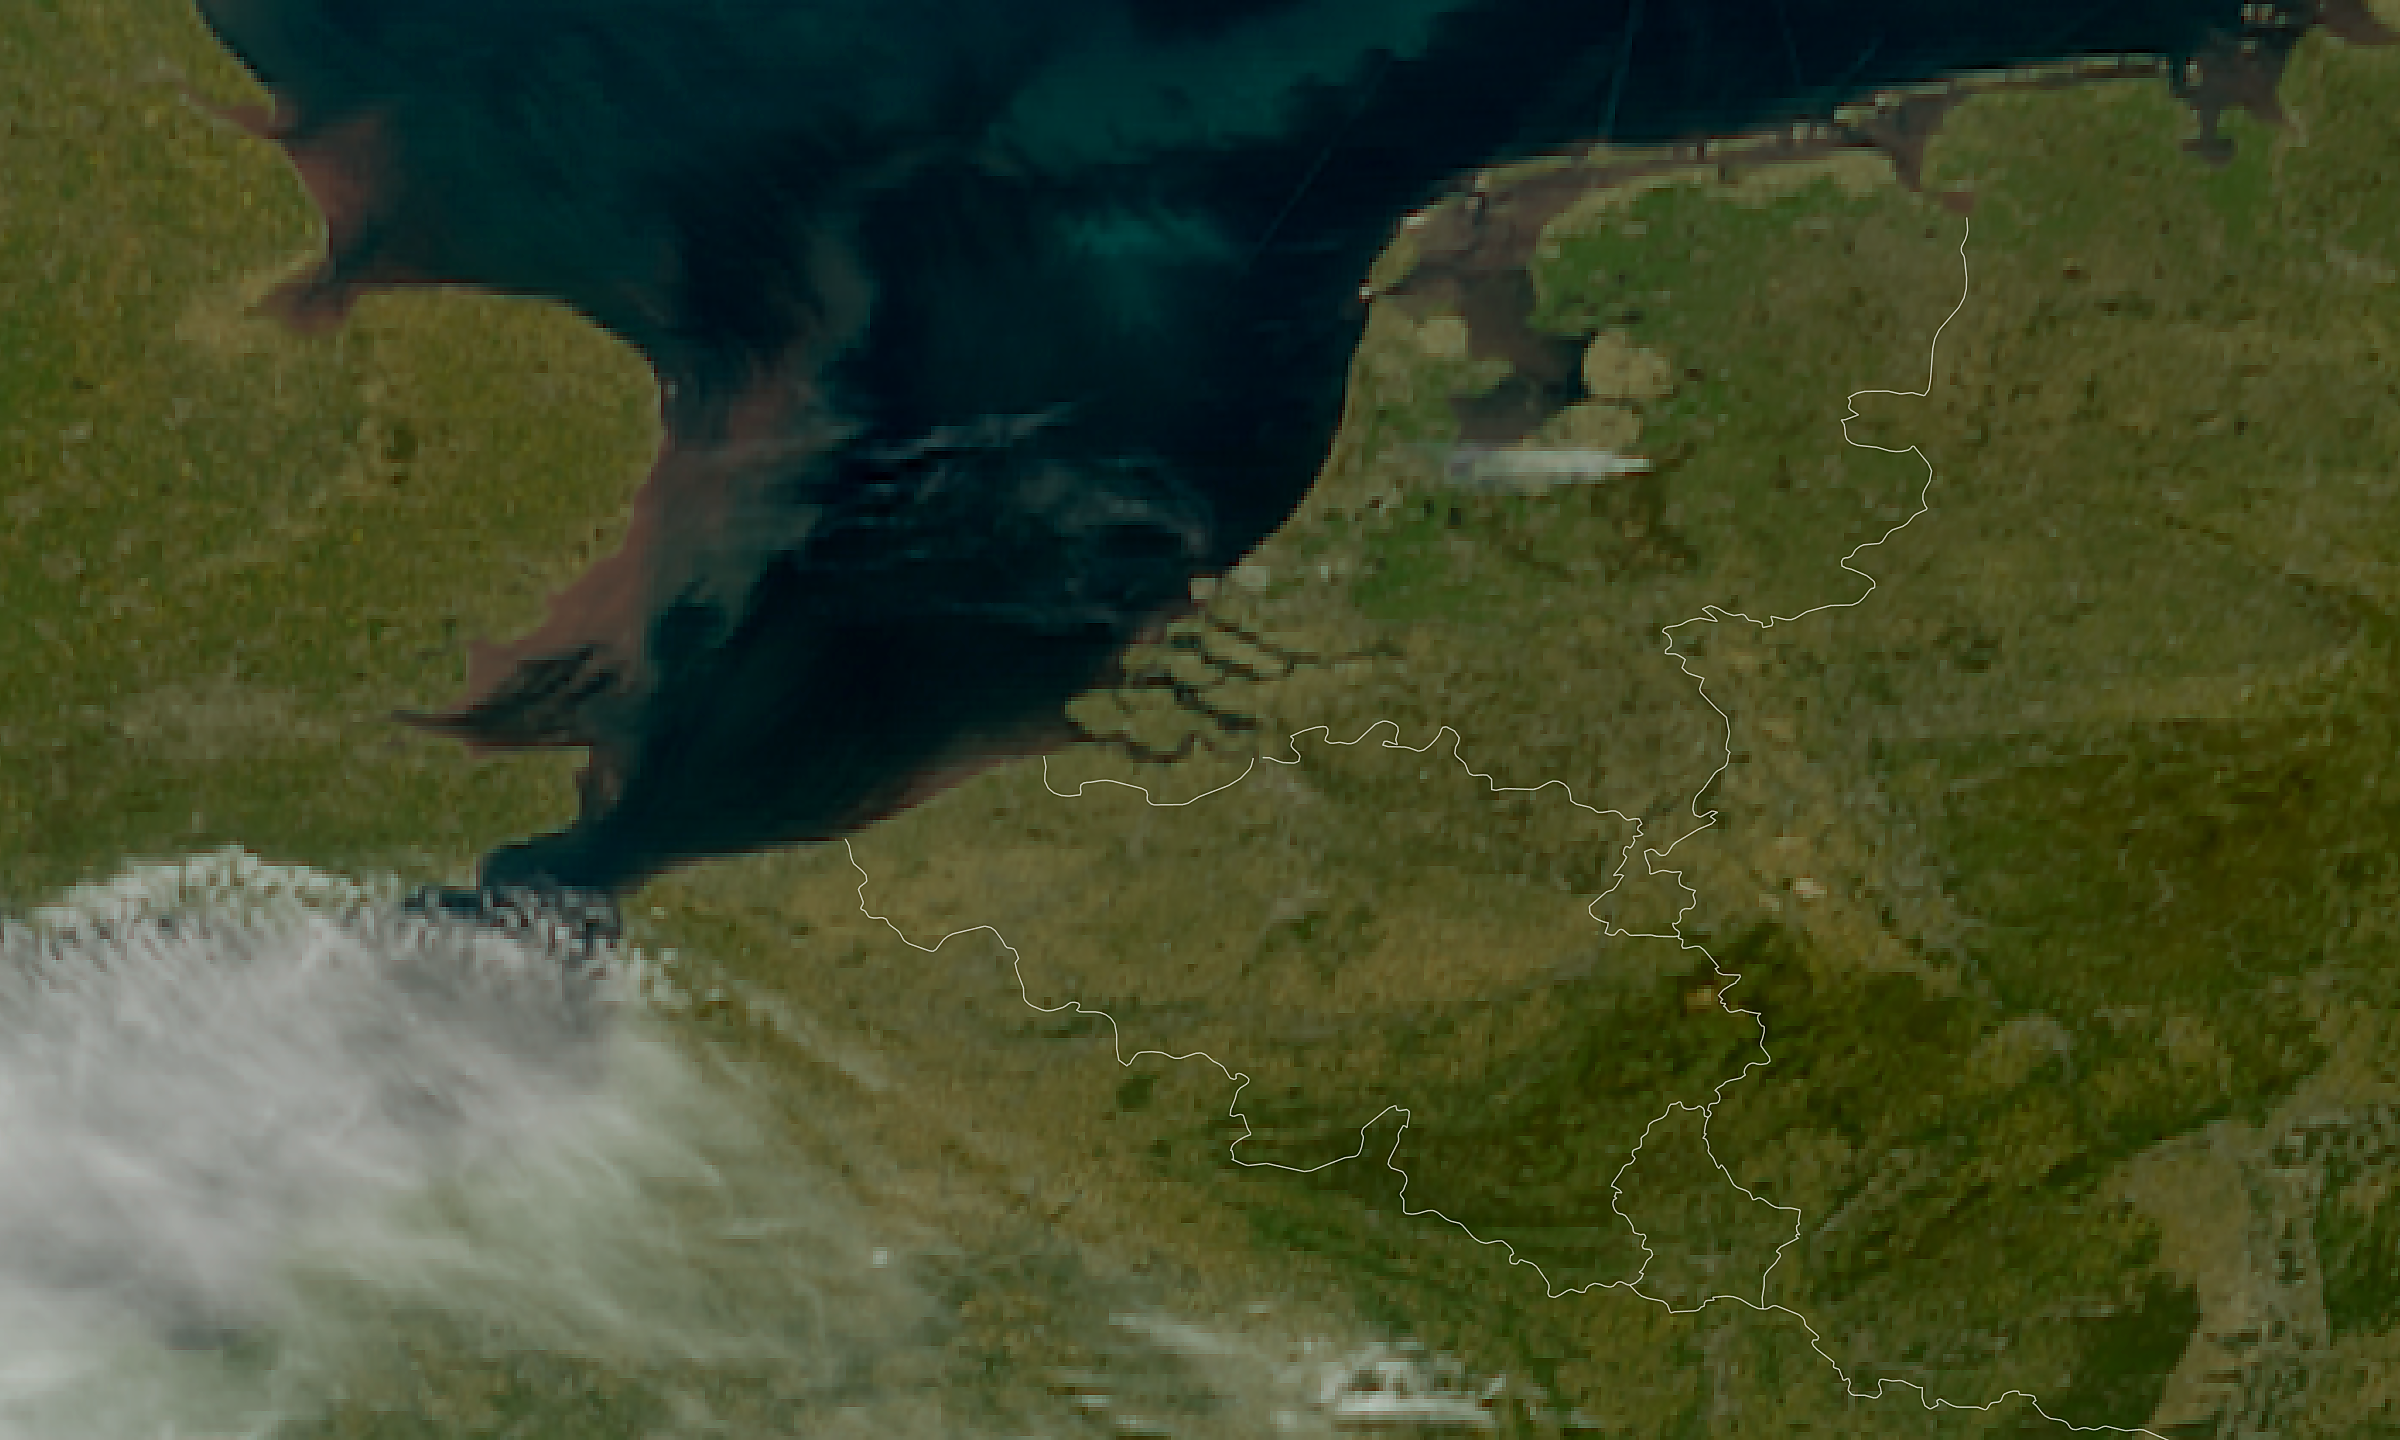
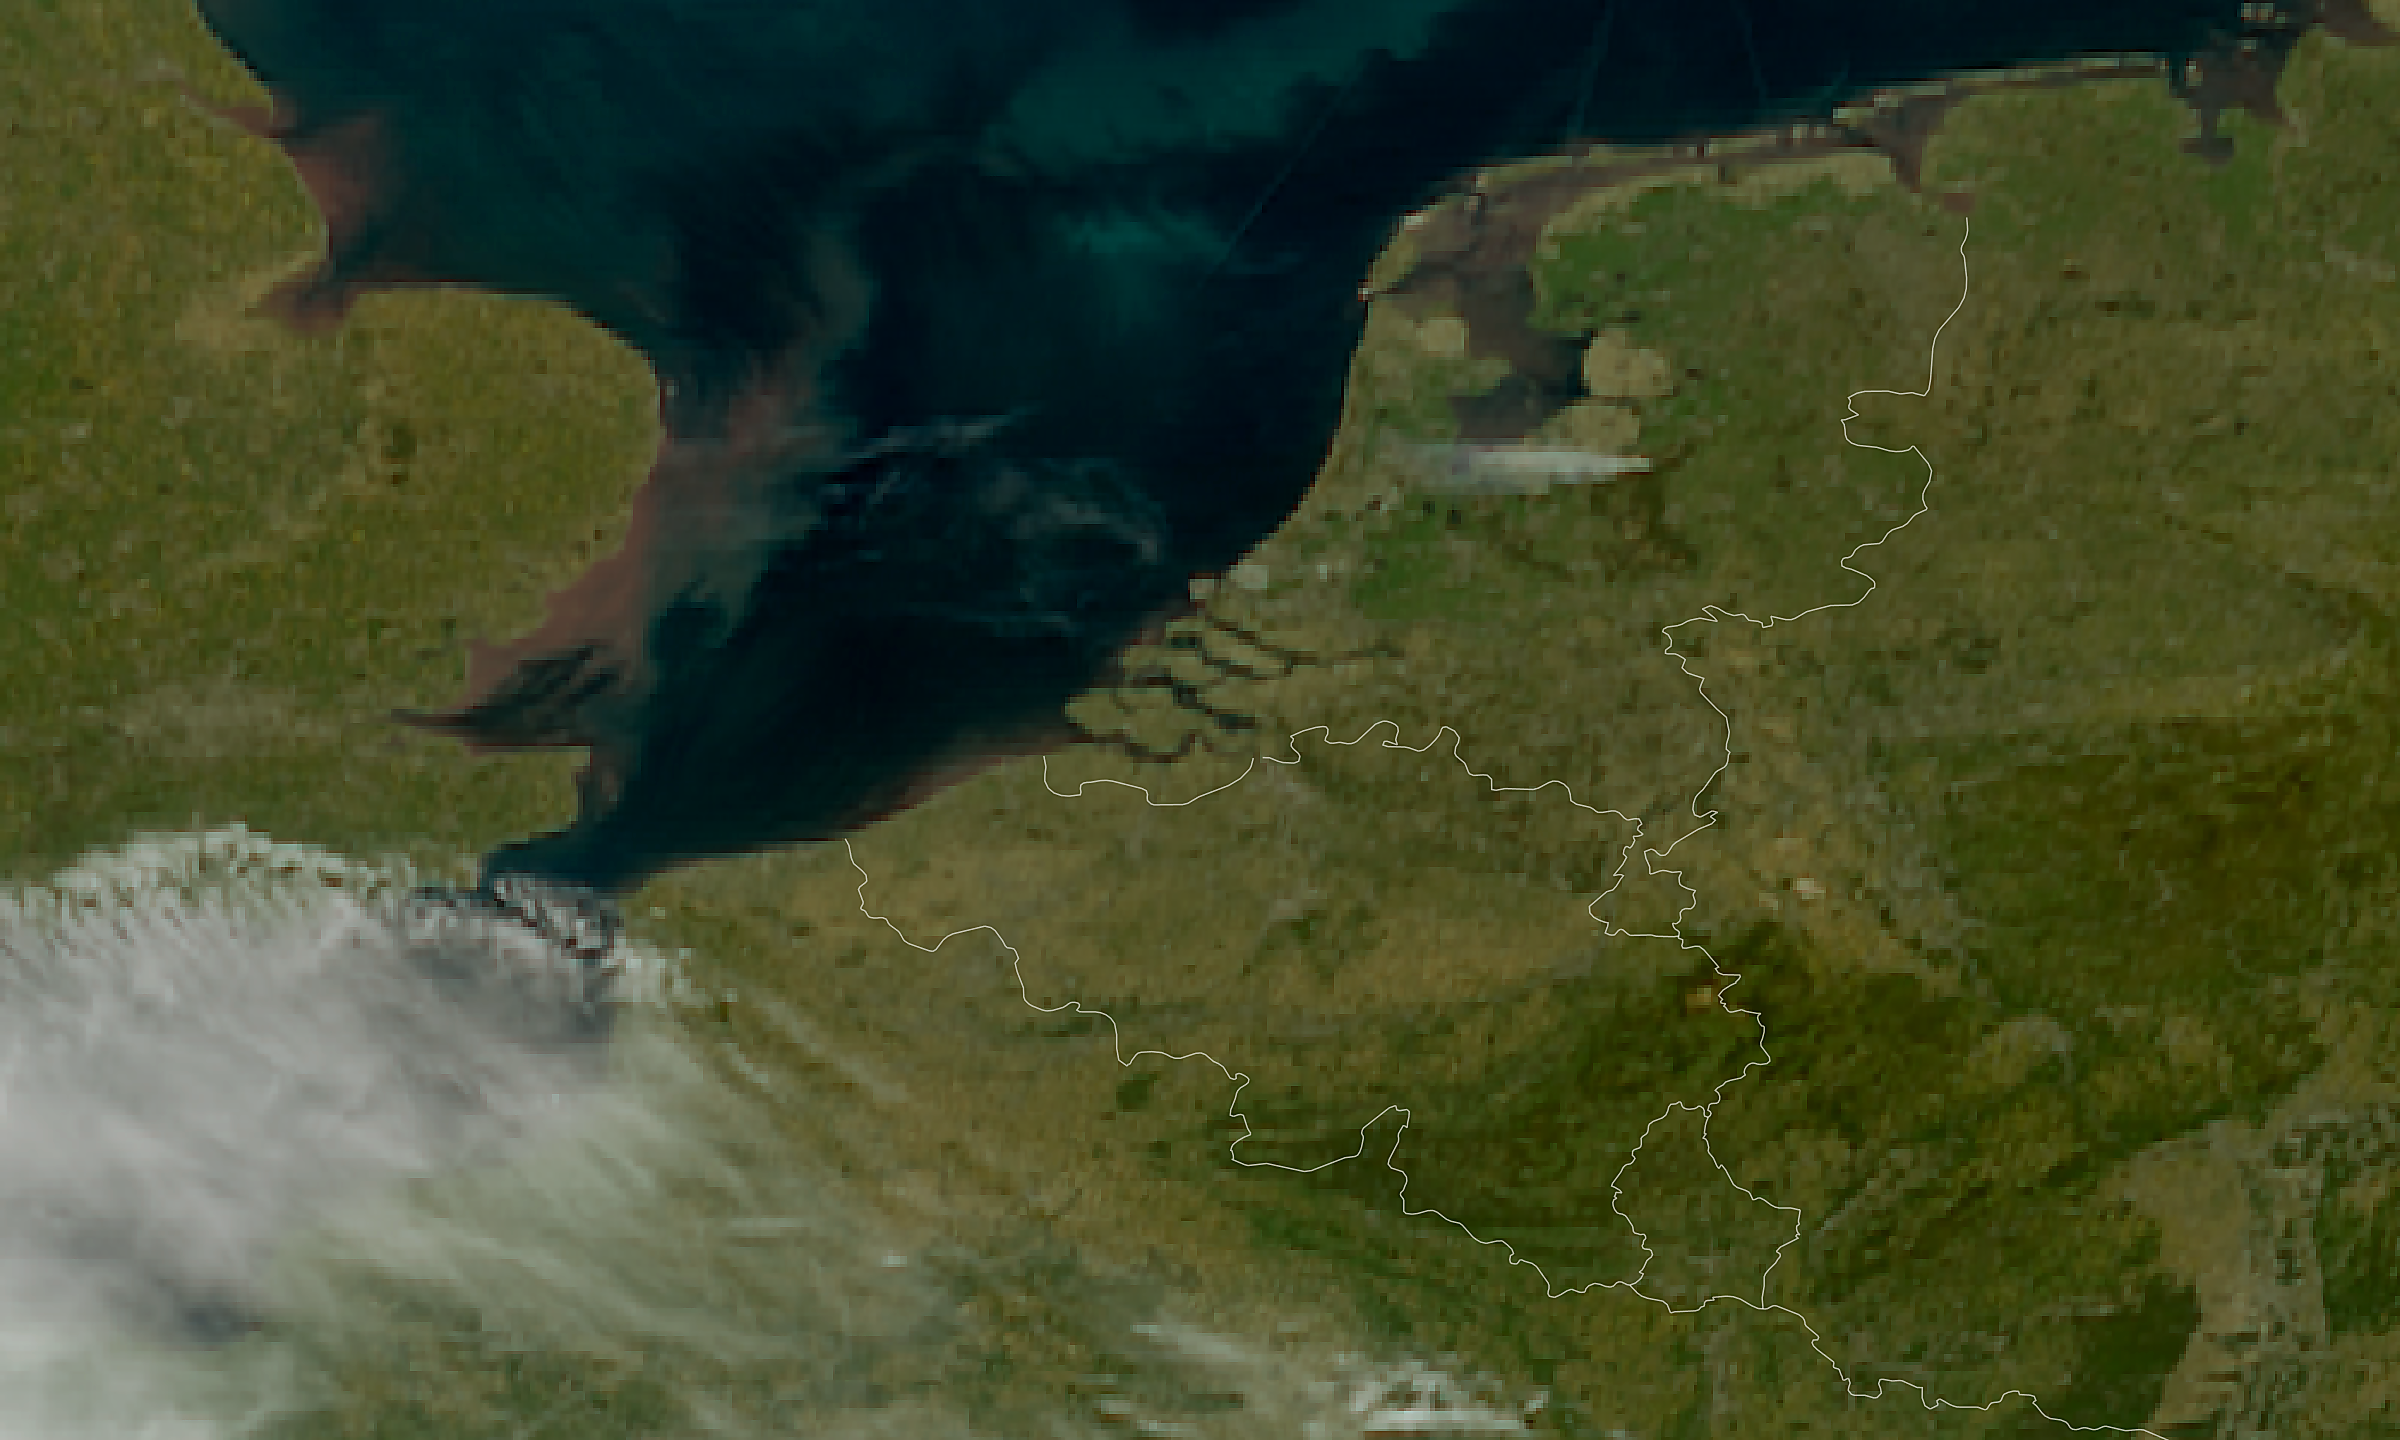
MTG Benelux satellietbeeld update 2026-04-29 13:30

diff --git a/mtg_benelux_meta.js b/mtg_benelux_meta.js
@@ -1,2 +1,2 @@
 const MTG_BENELUX_PRODUCT = "mtg_fd:rgb_truecolour";
-const MTG_BENELUX_TIJD = "2026-04-29T10:50:00Z";
+const MTG_BENELUX_TIJD = "2026-04-29T11:10:00Z";
